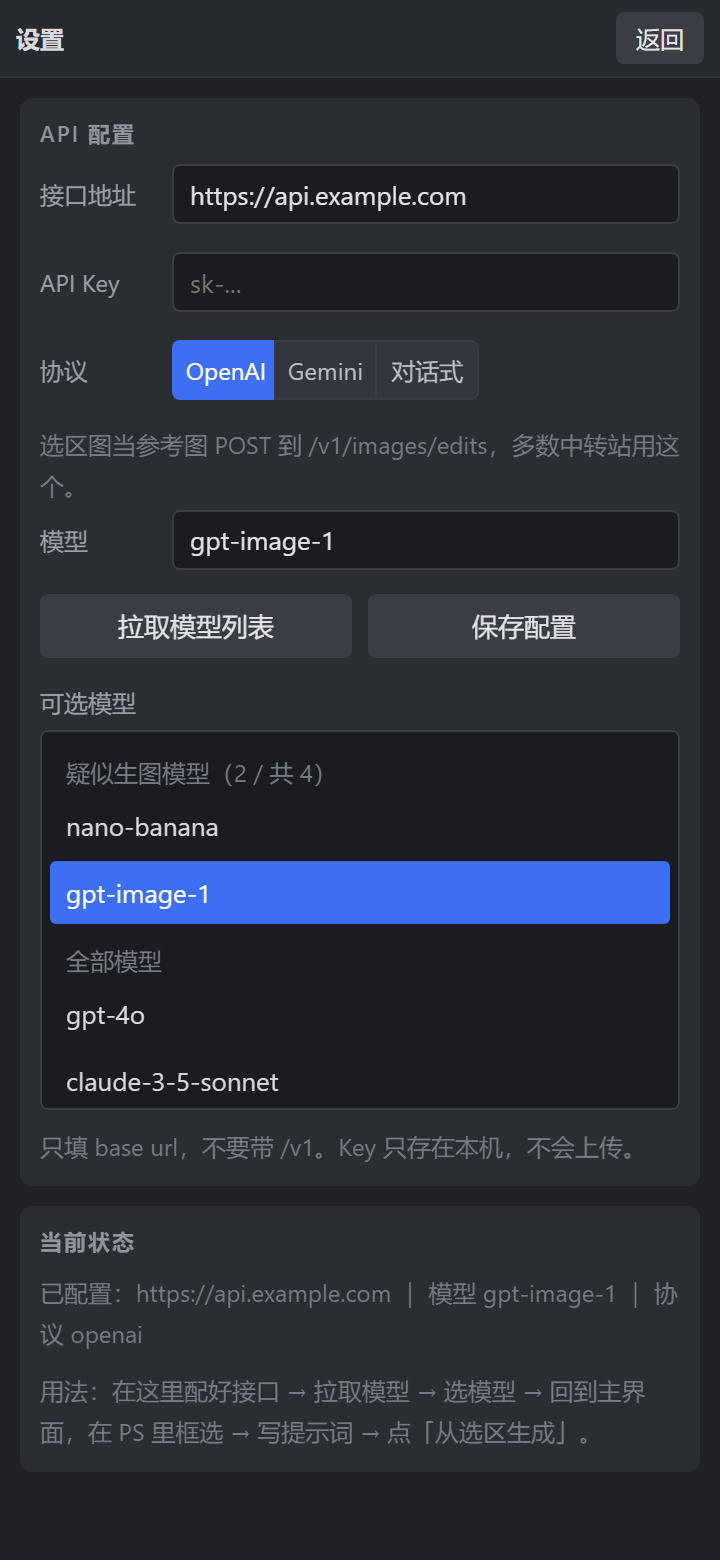
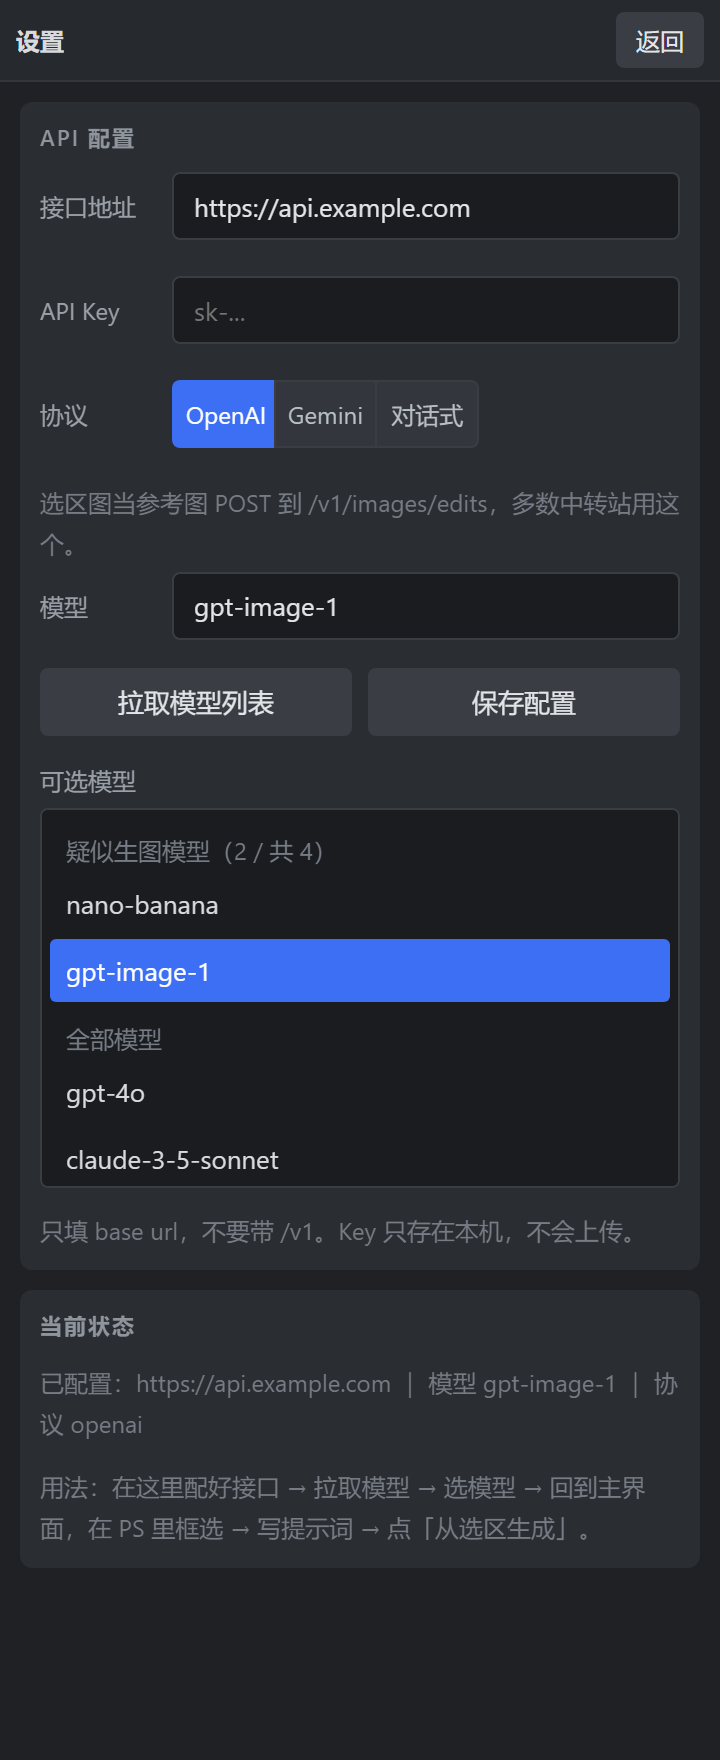
fix(ui): 输入框显式 line-height，修 PS 里首行文字被裁；行高放宽到 34px

diff --git a/index.html b/index.html
@@ -94,14 +94,14 @@
     .row {
       display: flex;
       align-items: center;
-      height: 26px;
-      min-height: 26px;
-      max-height: 26px;
-      margin-bottom: 6px;
+      height: 34px;
+      min-height: 34px;
+      max-height: 34px;
+      margin-bottom: 8px;
       overflow: hidden;
     }
     .row:last-child { margin-bottom: 0; }
-    .label { width: 62px; flex: 0 0 62px; color: #9aa0a8; line-height: 26px; }
+    .label { width: 62px; flex: 0 0 62px; color: #9aa0a8; line-height: 34px; }
     .grow { flex: 1 1 auto; min-width: 0; display: flex; align-items: center; }
     input[type="text"], input[type="password"], input[type="number"], textarea, select {
       width: 100%;
@@ -113,21 +113,25 @@
       font-size: 12px;
       font-family: inherit;
     }
-    /* 单行输入框与下拉框统一钉到 24px，避免宿主把它们撑成一大块。 */
+    /* 单行输入框：高度钉死，并且**必须自己写 line-height**。
+       UXP 里输入框的文字是按宿主自己的行高画的，不写这一行，首行字会被顶到
+       框外、上沿被裁掉，在 PS 里看到的就是「字没露全」。上下各留 4px 内边距，
+       18px 行高正好填满 28px 的框。 */
     input[type="text"], input[type="password"], input[type="number"], select {
-      height: 24px;
-      min-height: 24px;
-      max-height: 24px;
+      height: 28px;
+      min-height: 28px;
+      max-height: 28px;
       min-width: 0;
-      padding: 0 6px;
+      padding: 4px 8px;
+      line-height: 18px;
     }
-    textarea { resize: vertical; min-height: 64px; line-height: 1.5; }
+    textarea { resize: vertical; min-height: 76px; padding: 8px; line-height: 1.6; }
     button {
       background: #3a3e44;
       color: #e3e5e8;
       border: none;
       border-radius: 4px;
-      height: 26px;
+      height: 28px;
       padding: 0 10px;
       font-size: 12px;
       font-family: inherit;
@@ -140,10 +144,10 @@
     .btn-row button { flex: 1 1 0; }
     /* 档位切换：不用原生下拉框——Windows 的原生弹出列表不归我们管，
        字体和配色都会跟面板对不上。 */
-    .seg { display: flex; height: 24px; }
+    .seg { display: flex; height: 28px; }
     .seg button {
       flex: 1 1 0;
-      height: 24px;
+      height: 28px;
       min-width: 0;
       padding: 0 4px;
       border-radius: 0;
@@ -176,33 +180,36 @@
     .model-item.empty { color: #767c85; cursor: default; }
     .model-item.active { background: #3d6ff5; color: #fff; }
     .model-sep { color: #767c85; font-size: 11px; padding: 4px 6px 2px; }
-    .hint { color: #767c85; font-size: 11px; margin-top: 4px; line-height: 1.5; }
+    /* padding-top 不是装饰：UXP 里块级文字的首行会被上沿裁掉一两个像素，
+       留一点顶部内边距，字才完整。 */
+    .hint { color: #767c85; font-size: 11px; margin-top: 4px; padding-top: 3px; line-height: 1.6; }
     /* 设置页单独放宽：这一页是配一次就不常来的，可以滚动，
        所以行距、控件高度都给足，别让人点不中输入框、看不清字。
        主界面的紧凑尺寸不受影响（那里要挤下任务队列和日志）。 */
     #settingsBody { padding: 10px; }
     #settingsBody .section { padding: 10px; margin-bottom: 10px; }
     #settingsBody .row {
-      height: 34px;
-      min-height: 34px;
-      max-height: 34px;
+      height: 42px;
+      min-height: 42px;
+      max-height: 42px;
       margin-bottom: 10px;
       overflow: hidden;
     }
     #settingsBody .row:last-child { margin-bottom: 0; }
-    #settingsBody .label { width: 66px; flex: 0 0 66px; line-height: 34px; font-size: 12px; }
+    #settingsBody .label { width: 66px; flex: 0 0 66px; line-height: 42px; font-size: 12px; }
     #settingsBody input[type="text"], #settingsBody input[type="password"] {
-      height: 30px;
-      min-height: 30px;
-      max-height: 30px;
-      padding: 0 8px;
+      height: 34px;
+      min-height: 34px;
+      max-height: 34px;
+      padding: 6px 10px;
+      line-height: 20px;
       font-size: 13px;
     }
-    #settingsBody .seg { height: 30px; }
-    #settingsBody .seg button { height: 30px; font-size: 12px; padding: 0 6px; }
+    #settingsBody .seg { height: 34px; }
+    #settingsBody .seg button { height: 34px; font-size: 12px; padding: 0 6px; }
     #settingsBody .btn-row { gap: 8px; margin-top: 10px; }
-    #settingsBody .btn-row button { height: 32px; font-size: 13px; }
-    #settingsBody .hint { font-size: 12px; line-height: 1.7; margin-top: 8px; }
+    #settingsBody .btn-row button { height: 34px; font-size: 13px; }
+    #settingsBody .hint { font-size: 12px; line-height: 1.7; margin-top: 8px; padding-top: 3px; }
     #settingsBody .sub-label { font-size: 12px; margin: 14px 0 6px; }
     #settingsBody .model-list { max-height: 190px; padding: 4px; }
     #settingsBody .model-item { padding: 7px 8px; font-size: 13px; margin-bottom: 2px; }
@@ -216,7 +223,7 @@
       overflow-y: auto;
       background: #17191b;
       border-radius: 4px;
-      padding: 6px;
+      padding: 8px;
     }
     .lg-info { color: #9db2cc; }
     .lg-ok { color: #79c48a; }
@@ -228,12 +235,12 @@
       align-items: center;
       background: #1f2225;
       border-radius: 4px;
-      padding: 4px 6px;
+      padding: 6px 8px;
       margin-bottom: 4px;
     }
-    .task .tname { flex: 1 1 auto; overflow: hidden; text-overflow: ellipsis; white-space: nowrap; }
-    .task .tstate { flex: 0 0 auto; margin-left: 6px; color: #9aa0a8; }
-    .task .tkill { flex: 0 0 auto; margin-left: 6px; height: 20px; padding: 0 6px; font-size: 11px; }
+    .task .tname { flex: 1 1 auto; overflow: hidden; text-overflow: ellipsis; white-space: nowrap; line-height: 18px; }
+    .task .tstate { flex: 0 0 auto; margin-left: 6px; color: #9aa0a8; line-height: 18px; }
+    .task .tkill { flex: 0 0 auto; margin-left: 6px; height: 22px; padding: 0 6px; font-size: 11px; }
     #preview {
       display: flex;
       gap: 6px;
@@ -260,7 +267,7 @@
 
       <div class="section">
         <div class="section-title"><span>① 提示词</span></div>
-        <textarea id="prompt" placeholder="每行一条提示词。单行=生成一张；多行=按行批量生成。"></textarea>
+        <textarea id="prompt" placeholder="每行一条提示词；写几行就生成几张。"></textarea>
         <div class="row" style="margin-top:6px;">
           <div class="label">尺寸档</div>
           <div class="grow">

diff --git a/CHANGELOG.md b/CHANGELOG.md
@@ -36,6 +36,12 @@
 
 ### 修复
 
+- **输入框里的字被切掉上沿**：UXP 里原生输入控件的文字是按宿主自己的行高画的，
+  我们只给了高度、没给 `line-height`，首行字就被顶到框外、上沿裁掉一条——
+  在 PS 里看到的就是「字没露全」。现在单行输入框显式写 `line-height`（框内上下各留
+  4px 内边距，28px 框配 18px 行高），文本框加内边距到 8px 并配 1.6 行高；
+  说明文字、任务行、日志也各留了一点顶部空间，块级文字的首行同样不再被裁。
+  行高同步放宽到 34px，行与行之间不再挤在一起。
 - **插件从「增效工具」里整个消失**：上一版把图标路径改成基名时，两个图标条目指向了同一个
   文件、主题也相同，宿主判定为重复图标（`Duplicate 'root' icons not allowed`），
   直接拒绝解析 `manifest.json`，整个插件就不出现了。
